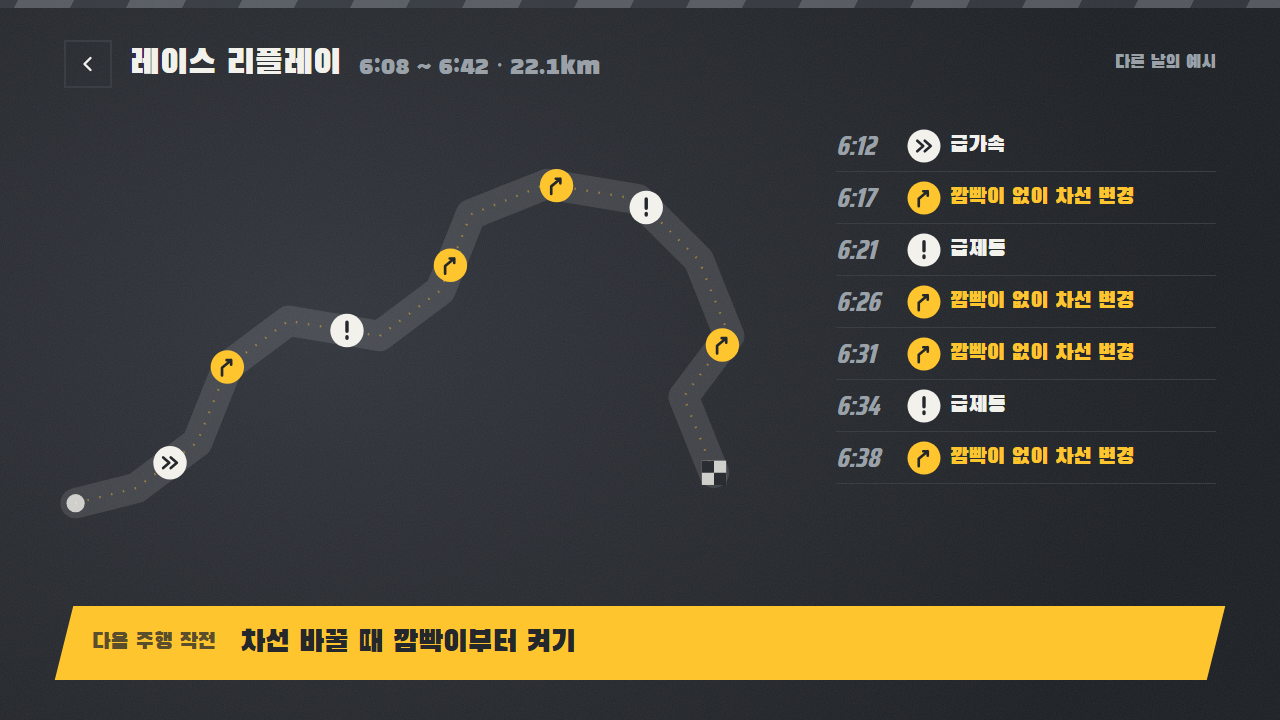
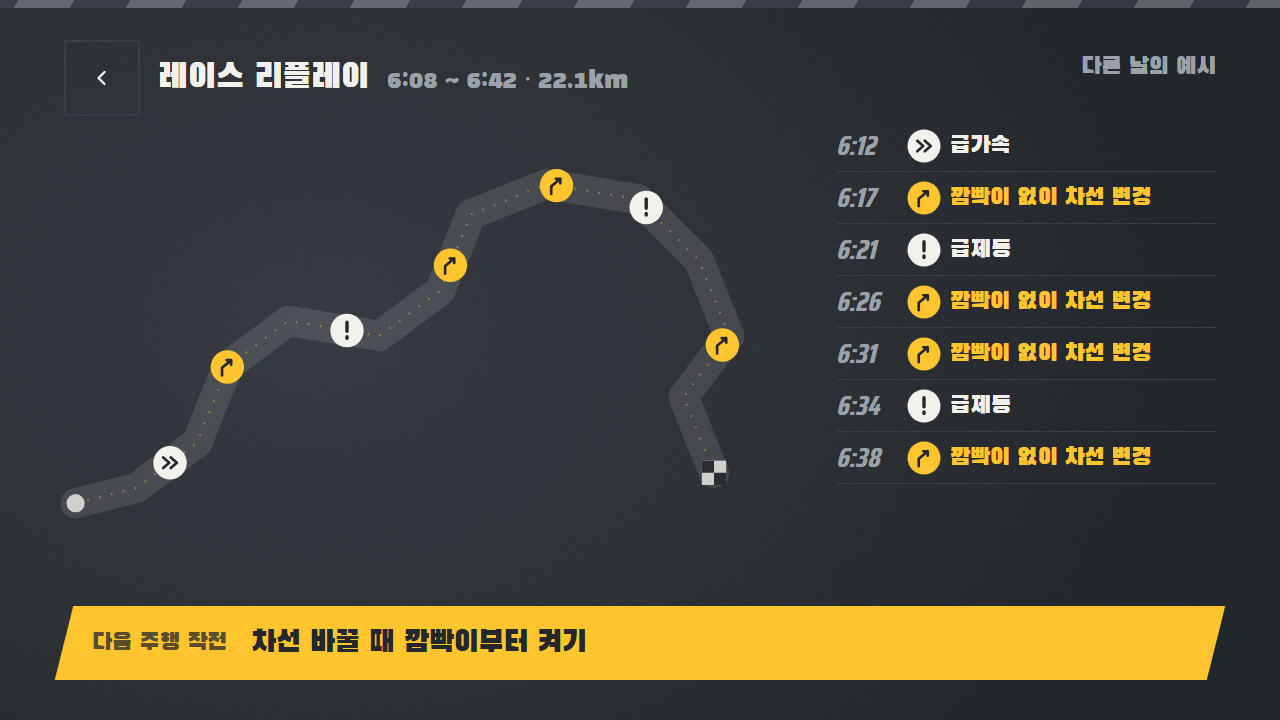
fix(mockups): meet Android Automotive readability (24px text, 4.5:1 contrast, 76px targets)
Adds an in-page audit checked by tests. Darkens the race red to #C8102E so white text passes; dimmed rows use grey text instead of opacity.

diff --git a/mockups/league.html b/mockups/league.html
@@ -9,31 +9,31 @@
   .head .t { font-size: 34px; }
   .head .t .sub { color: var(--grey); font-size: 24px; margin-left: 16px; }
   .tabs { display: flex; gap: 8px; }
-  .tabs b { font-weight: 400; font-size: 22px; padding: 12px 22px; background: var(--cell); color: var(--grey); }
+  .tabs b { font-weight: 400; font-size: 24px; padding: 12px 22px; background: var(--cell); color: var(--grey); }
   .tabs b.on { background: var(--white); color: var(--asphalt); }
   .mine { position: absolute; left: 64px; top: 128px; width: 500px; }
   .mine .k { font-size: 24px; color: var(--grey); }
   .mine .big { font-size: 200px; line-height: .85; letter-spacing: -6px; margin-top: 6px; }
   .mine .line { display: inline-block; margin-top: 14px; background: var(--yellow); color: var(--asphalt); font-size: 28px; padding: 8px 20px; }
   .tiers { display: flex; gap: 6px; margin-top: 28px; }
-  .tiers i { font-style: normal; flex: 1; text-align: center; font-size: 19px; padding: 8px 0; background: var(--cell); color: var(--grey); }
+  .tiers i { font-style: normal; flex: 1; text-align: center; font-size: 24px; padding: 8px 0; background: var(--cell); color: var(--grey); }
   .tiers i.on { background: var(--gold); color: var(--asphalt); }
   .gain { position: absolute; left: 64px; bottom: 44px; width: 500px; display: grid; grid-template-columns: 1fr 1fr; gap: 12px; }
-  .gain div { background: var(--cell); padding: 16px 18px 18px; font-size: 17px; color: var(--grey); line-height: 1.3; }
+  .gain div { background: var(--cell); padding: 16px 18px 18px; font-size: 24px; color: var(--grey); line-height: 1.3; }
   .gain b { display: block; font-weight: 400; font-size: 46px; color: var(--white); line-height: 1.05; margin-bottom: 4px; }
   .gain .team b { color: var(--yellow); }
   .tower { position: absolute; right: 64px; top: 112px; width: 560px; }
-  .tower h4 { margin: 0 0 10px; font-weight: 400; font-size: 22px; color: var(--grey); display: flex; justify-content: space-between; padding: 0 20px; }
+  .tower h4 { margin: 0 0 10px; font-weight: 400; font-size: 24px; color: var(--grey); display: flex; justify-content: space-between; padding: 0 20px; }
   .tower .row { grid-template-columns: 100px minmax(0, 1fr) 90px; height: 50px; margin-bottom: 5px; }
   .tower .row .p { font-size: 32px; }
-  .tower .row .n { font-size: 22px; }
+  .tower .row .n { font-size: 24px; }
   .tower .row .s { font-size: 28px; }
   .tower .row.top1 .p { color: var(--gold); }
   .tower .row.me { height: 62px; margin: 6px 0 6px -24px; }
-  .dots { text-align: center; color: #6B7178; font-size: 22px; line-height: 26px; }
+  .dots { text-align: center; color: #9BA1A8; font-size: 24px; line-height: 26px; }
   .zone { display: flex; align-items: center; gap: 14px; height: 30px; margin: 2px 0 6px; --c: var(--yellow); }
   .zone::before, .zone::after { content: ''; flex: 1; border-top: 3px dashed var(--c); }
-  .zone span { color: var(--yellow); font-size: 20px; white-space: nowrap; }
+  .zone span { color: var(--yellow); font-size: 24px; white-space: nowrap; }
   .zone.down { --c: var(--red); }
   .zone.down span { color: #F07A80; }
 </style>
@@ -54,8 +54,8 @@
 </div>
 
 <div class="gain">
-  <div>안전운전으로 내가 아낀 돈<b class="num">₩8,400</b>이번 달, 부드럽게 달린 만큼</div>
-  <div class="team">우리 리그가 함께 줄인 급제동<b class="num">3,120회</b>이번 주, 지난주보다 12% 적게</div>
+  <div>내가 아낀 돈<b class="num">₩8,400</b>이번 달</div>
+  <div class="team">리그가 줄인 급제동<b class="num">3,120회</b>이번 주, 12% 감소</div>
 </div>
 
 <div class="tower">

diff --git a/mockups/report.html b/mockups/report.html
@@ -11,7 +11,7 @@
   .sc .k { font-size: 24px; color: var(--grey); }
   .sc .big { font-size: 150px; line-height: .9; letter-spacing: -4px; }
   .sc .chg { display: inline-block; margin-left: 18px; vertical-align: 28px; background: var(--yellow); color: var(--asphalt); font-size: 30px; padding: 6px 18px; }
-  .sc .last { font-size: 22px; color: var(--grey); margin-top: 6px; }
+  .sc .last { font-size: 24px; color: var(--grey); margin-top: 6px; }
   .bars { position: absolute; left: 64px; top: 380px; width: 520px; height: 190px; display: flex; align-items: flex-end; gap: 14px; border-bottom: 2px solid #3A3E45; }
   .bars div { flex: 1; display: flex; flex-direction: column; align-items: center; gap: 6px; height: 100%; justify-content: flex-end; }
   .bars b { font-weight: 400; font-size: 24px; }
@@ -19,13 +19,13 @@
   .bars i.hi { background: var(--yellow); }
   .bars i.rest { background: none; border: 2px dashed #3A3E45; border-bottom: none; height: 24px; }
   .days { position: absolute; left: 64px; top: 582px; width: 520px; display: flex; gap: 14px; }
-  .days span { flex: 1; text-align: center; font-size: 22px; color: var(--grey); }
+  .days span { flex: 1; text-align: center; font-size: 24px; color: var(--grey); }
   .pos { position: absolute; right: 64px; top: 118px; width: 560px; }
   .pos .k { font-size: 24px; color: var(--grey); display: flex; justify-content: space-between; }
   .pos .k b { font-weight: 400; color: var(--yellow); }
   .pos svg { display: block; margin-top: 12px; }
   .pit { position: absolute; left: 64px; right: 64px; bottom: 36px; display: flex; align-items: center; gap: 20px; background: var(--cell); padding: 16px 24px; }
-  .pit .h { color: var(--yellow); font-size: 22px; white-space: nowrap; }
+  .pit .h { color: var(--yellow); font-size: 24px; white-space: nowrap; }
   .pit .m { font-size: 26px; }
 </style>
 </head>
@@ -83,13 +83,13 @@
   const jumps = days.map((d, i) => i ? days[i - 1].rank - d.rank : 0);
   const bestJump = jumps.indexOf(Math.max(...jumps));
   let svg = '';
-  for (let r = lo; r <= hi; r += 3) svg += `<path d="M60 ${y(r)} H540" stroke="#3A3E45"/><text x="0" y="${y(r) + 7}" fill="#9BA1A8" font-size="22" class="num">P${r}</text>`;
-  svg += `<path d="M60 ${y(lo)} H540" stroke="#FFC52E" stroke-width="3" stroke-dasharray="10 8"/><text x="540" y="${y(lo) - 10}" fill="#FFC52E" font-size="20" text-anchor="end">승급 라인</text>`;
+  for (let r = lo; r <= hi; r += 3) svg += `<path d="M60 ${y(r)} H540" stroke="#3A3E45"/><text x="0" y="${y(r) + 7}" fill="#9BA1A8" font-size="24" class="num">P${r}</text>`;
+  svg += `<path d="M60 ${y(lo)} H540" stroke="#FFC52E" stroke-width="3" stroke-dasharray="10 8"/><text x="540" y="${y(lo) - 10}" fill="#FFC52E" font-size="24" text-anchor="end">승급 라인</text>`;
   svg += `<polyline points="${days.map((d, i) => x(i) + ',' + y(d.rank)).join(' ')}" fill="none" stroke="#F2F1EC" stroke-width="5" stroke-linejoin="round"/>`;
   days.forEach((d, i) => {
     svg += i === bestJump ? `<circle cx="${x(i)}" cy="${y(d.rank)}" r="10" fill="#FFC52E"/><text x="${x(i)}" y="${y(d.rank) - 20}" fill="#FFC52E" font-size="24" text-anchor="middle" class="num">+${jumps[i]}</text>`
       : `<circle cx="${x(i)}" cy="${y(d.rank)}" r="7" fill="#24272C" stroke="#F2F1EC" stroke-width="4"/>`;
-    svg += `<text x="${x(i)}" y="396" fill="#9BA1A8" font-size="22" text-anchor="middle">${d.n}</text>`;
+    svg += `<text x="${x(i)}" y="396" fill="#9BA1A8" font-size="24" text-anchor="middle">${d.n}</text>`;
   });
   document.getElementById('chart').innerHTML = svg;
   finishPage();

diff --git a/mockups/page.js b/mockups/page.js
@@ -21,6 +21,7 @@ function finishPage() {
       return outside || clipped;
     });
     document.body.dataset.overflow = bad ? 'yes' : 'none';
+    document.body.dataset.audit = carAudit().join(' | ');
     if (bad) document.body.dataset.offender = bad.tagName + '.' + bad.className + ' ' + bad.textContent.slice(0, 20) + ' ' + JSON.stringify(bad.getBoundingClientRect());
   });
 }
@@ -50,3 +51,38 @@ const EVENT_ICON = {
   brake: '<circle r="22" fill="#F2F1EC"/><path d="M0-11v12M0 8v2" stroke="#24272C" stroke-width="4.5" stroke-linecap="round"/>',
   accel: '<circle r="22" fill="#F2F1EC"/><path d="M-9-7l8 7-8 7M1-7l8 7-8 7" fill="none" stroke="#24272C" stroke-width="3.5" stroke-linejoin="round" stroke-linecap="round"/>',
 };
+
+// Android Automotive 가독성 기준 검사. 어긋난 곳을 "글자: 이유" 목록으로 돌려준다.
+// 글씨 24px 이상, 글씨와 배경 대비 4.5:1 이상, 링크·버튼은 76×76px 이상.
+const PAGE_BG = [48, 52, 59]; // 조명이 가장 밝은 곳(#30343B). 밝은 글씨에는 가장 불리한 바탕.
+function carAudit() {
+  const rgba = s => (s.match(/[\d.]+/g) || [0, 0, 0, 0]).map(Number).concat(1).slice(0, 4);
+  const lum = c => { const v = c.slice(0, 3).map(x => { x /= 255; return x <= .03928 ? x / 12.92 : ((x + .055) / 1.055) ** 2.4; }); return .2126 * v[0] + .7152 * v[1] + .0722 * v[2]; };
+  const mix = (fg, bg, a) => fg.slice(0, 3).map((x, i) => x * a + bg[i] * (1 - a));
+  const out = [];
+  for (const el of document.body.querySelectorAll('*')) {
+    if (el.closest('[aria-hidden="true"]') || el.tagName === 'SCRIPT') continue;
+    const r = el.getBoundingClientRect();
+    if (r.width === 0) continue;
+    const label = (el.textContent || el.getAttribute('aria-label') || el.tagName).trim().slice(0, 14);
+    if ((el.tagName === 'A' || el.tagName === 'BUTTON') && Math.min(r.width, r.height) < 75.5) out.push(`${label}: 누르는 영역 ${Math.round(r.width)}×${Math.round(r.height)}`);
+    const own = [...el.childNodes].some(n => n.nodeType === 3 && n.textContent.trim());
+    if (!own) continue;
+    const cs = getComputedStyle(el);
+    const size = parseFloat(cs.fontSize);
+    if (size < 23.5) out.push(`${label}: 글씨 ${size}px`);
+    // 바탕: 색이 칠해진 가장 가까운 조상, 없으면 페이지 바탕. 투명도는 글씨에 곱한다.
+    let bg = PAGE_BG, alpha = rgba(cs.color)[3];
+    for (let p = el; p && p !== document.body; p = p.parentElement) {
+      const ps = getComputedStyle(p);
+      alpha *= parseFloat(ps.opacity);
+      const b = rgba(ps.backgroundColor);
+      if (b[3] > .5 && bg === PAGE_BG) bg = b.slice(0, 3);
+    }
+    const fg = mix(rgba(cs.color), bg, alpha);
+    const [hi, lo] = [lum(fg), lum(bg)].sort((a, b) => b - a);
+    const ratio = (hi + .05) / (lo + .05);
+    if (ratio < 4.5) out.push(`${label}: 대비 ${ratio.toFixed(1)}`);
+  }
+  return out;
+}

diff --git a/mockups/result-low.html b/mockups/result-low.html
@@ -6,17 +6,17 @@
 <link rel="stylesheet" href="tokens.css">
 <style>
   .top { position: absolute; left: 64px; top: 52px; font-size: 30px; color: var(--grey); }
-  .note { position: absolute; right: 64px; bottom: 20px; font-size: 18px; color: var(--grey); }
+  .note { position: absolute; right: 64px; bottom: 20px; font-size: 24px; color: var(--grey); }
   .score { position: absolute; left: 56px; top: 96px; font-size: 340px; line-height: .85; letter-spacing: -12px; color: var(--grey); }
-  .score small { font-family: 'Black Han Sans'; font-style: normal; font-size: 84px; letter-spacing: 0; color: #6B7178; margin-left: 28px; }
+  .score small { font-family: 'Black Han Sans'; font-style: normal; font-size: 84px; letter-spacing: 0; color: #9BA1A8; margin-left: 28px; }
   .pit { position: absolute; left: 64px; top: 400px; width: 600px; background: var(--yellow); color: var(--asphalt); padding: 22px 28px 24px; }
   .pit .h { font-size: 24px; opacity: .75; }
   .pit .m { font-size: 38px; line-height: 1.2; margin-top: 6px; white-space: nowrap; }
-  .pit .r { display: flex; justify-content: space-between; margin-top: 14px; font-size: 21px; border-top: 3px solid var(--asphalt); padding-top: 12px; }
-  .stats { position: absolute; left: 720px; bottom: 56px; display: flex; gap: 40px; font-size: 22px; color: var(--grey); }
+  .pit .r { display: flex; justify-content: space-between; margin-top: 14px; font-size: 24px; border-top: 3px solid var(--asphalt); padding-top: 12px; }
+  .stats { position: absolute; left: 720px; bottom: 56px; display: flex; gap: 40px; font-size: 24px; color: var(--grey); }
   .stats b { display: block; font-size: 48px; line-height: 1; color: var(--white); }
   .stats b.broken { color: var(--grey); }
-  .stats .again { font-size: 20px; color: var(--yellow); }
+  .stats .again { font-size: 24px; color: var(--yellow); }
   .tower { position: absolute; right: 64px; top: 52px; width: 520px; }
   .tower h4 { margin: 0 0 14px; font-weight: 400; font-size: 26px; color: var(--grey); display: flex; justify-content: space-between; }
   .tower .row { grid-template-columns: 112px minmax(0, 1fr) auto 84px; height: 60px; }
@@ -26,7 +26,7 @@
   .tower .row.me .p { font-size: 44px; }
   .tower .row.target { outline: 3px dashed var(--yellow); outline-offset: -3px; }
   .tower .tag { background: var(--yellow); color: var(--asphalt); }
-  .gap { font-size: 22px; color: var(--yellow); margin: 2px 0 8px 8px; }
+  .gap { font-size: 24px; color: var(--yellow); margin: 2px 0 8px 8px; }
 </style>
 </head>
 <body>

diff --git a/mockups/driving.html b/mockups/driving.html
@@ -9,16 +9,16 @@
   .rec { position: absolute; left: 80px; top: 64px; display: flex; align-items: center; gap: 14px; font-size: 26px; color: var(--grey); }
   .rec i { width: 16px; height: 16px; border-radius: 50%; background: var(--yellow); }
   h1 { position: absolute; left: 80px; top: 180px; margin: 0; font-weight: 400; font-size: 84px; color: var(--white); line-height: 1.1; }
-  .sub { position: absolute; left: 84px; top: 290px; font-size: 30px; color: #8A9097; }
+  .sub { position: absolute; left: 84px; top: 290px; font-size: 30px; color: #9BA1A8; }
   .sil { position: absolute; right: 70px; top: 318px; width: 480px; height: 176px; opacity: .18; }
   .wrap { position: absolute; left: 80px; right: 80px; bottom: 150px; height: 44px; }
   .track { position: absolute; inset: 0; display: flex; gap: 6px; }
   .track span { flex: 1; background: #2B2F35; }
   .track span.on { background: var(--yellow); opacity: .8; }
-  .track span.flag { flex: 0 0 60px; background: repeating-conic-gradient(#8A9097 0 25%, #2B2F35 0 50%) 0 0/22px 22px; }
-  .qlabel { position: absolute; top: -44px; left: 0; border-bottom: 3px solid #5C5A4E; font-size: 20px; color: #8A9097; padding-bottom: 6px; white-space: nowrap; }
+  .track span.flag { flex: 0 0 60px; background: repeating-conic-gradient(#9BA1A8 0 25%, #2B2F35 0 50%) 0 0/22px 22px; }
+  .qlabel { position: absolute; top: -44px; left: 0; border-bottom: 3px solid #5C5A4E; font-size: 24px; color: #9BA1A8; padding-bottom: 6px; white-space: nowrap; }
   .car { position: absolute; top: -34px; }
-  .meta { position: absolute; left: 80px; right: 80px; bottom: 72px; display: flex; justify-content: space-between; font-size: 26px; color: #8A9097; }
+  .meta { position: absolute; left: 80px; right: 80px; bottom: 72px; display: flex; justify-content: space-between; font-size: 26px; color: #9BA1A8; }
   .meta b { font-size: 40px; color: var(--white); margin-right: 8px; }
   .meta .streak { color: var(--yellow); }
 </style>

diff --git a/mockups/replay.html b/mockups/replay.html
@@ -6,19 +6,19 @@
 <link rel="stylesheet" href="tokens.css">
 <style>
   .head { position: absolute; left: 64px; top: 40px; display: flex; align-items: center; gap: 18px; }
-  .back { width: 48px; height: 48px; border: 2px solid #3A3E45; display: flex; align-items: center; justify-content: center; }
+  .back { width: 76px; height: 76px; border: 2px solid #3A3E45; display: flex; align-items: center; justify-content: center; }
   .head h1 { margin: 0; font-weight: 400; font-size: 34px; }
   .head .sub { color: var(--grey); font-size: 24px; }
-  .note { position: absolute; right: 64px; top: 52px; font-size: 18px; color: var(--grey); }
+  .note { position: absolute; right: 64px; top: 52px; font-size: 24px; color: var(--grey); }
   #map { position: absolute; left: 30px; top: 108px; width: 760px; height: 456px; }
   .list { position: absolute; right: 64px; top: 120px; width: 380px; margin: 0; padding: 0; list-style: none; }
-  .list li { display: grid; grid-template-columns: 70px 44px 1fr; align-items: center; height: 52px; border-bottom: 1px solid #3A3E45; font-size: 22px; }
+  .list li { display: grid; grid-template-columns: 70px 44px 1fr; align-items: center; height: 52px; border-bottom: 1px solid #3A3E45; font-size: 24px; }
   .list li .time { font-size: 26px; color: var(--grey); }
   .list li.lane .what { color: var(--yellow); }
   .pit { position: absolute; left: 64px; right: 64px; bottom: 40px; display: flex; align-items: center; gap: 24px; background: var(--yellow); color: var(--asphalt); padding: 18px 28px; }
-  .pit .h { font-size: 22px; opacity: .75; white-space: nowrap; }
+  .pit .h { font-size: 24px; opacity: .75; white-space: nowrap; }
   .pit .m { font-size: 30px; white-space: nowrap; }
-  .pit .r { margin-left: auto; font-size: 20px; white-space: nowrap; }
+  .pit .r { margin-left: auto; font-size: 24px; white-space: nowrap; }
 </style>
 </head>
 <body>

diff --git a/mockups/test/render.test.js b/mockups/test/render.test.js
@@ -23,7 +23,7 @@ test('result-low', () => {
   const dump = checkPage('result-low.html',
     ['64', '다음 주행 작전', '차선 바꿀 때 깜빡이부터 켜기', '깜빡이 없이 차선 변경 4회', '매너 +9점',
      '13일 → 0일', '다음 주행 70점이면 1일부터 다시', 'P126', '▼1', '목표', '다른 날의 예시']);
-  assert.ok(!dump.includes('#E8323C') && !dump.includes('var(--red)'), '아쉬운 날에 빨강 사용');
+  assert.ok(!dump.includes('#C8102E') && !dump.includes('var(--red)'), '아쉬운 날에 빨강 사용');
 });
 
 test('league', () => checkPage('league.html',
@@ -70,5 +70,16 @@ test('replay', () => {
   const text = dump.replace(/<(script|style)[\s\S]*?<\/\1>/g, '').replace(/<[^>]+>/g, '');
   assert.equal(text.split('깜빡이 없이 차선 변경').length - 1, 4, '깜빡이 누락 4회');
   assert.doesNotMatch(text, /[−-]\d+점/, '사건별 감점 숫자 금지');
-  assert.ok(!dump.includes('#E8323C') && !dump.includes('var(--red)'), '아쉬운 날에 빨강 사용');
+  assert.ok(!dump.includes('#C8102E') && !dump.includes('var(--red)'), '아쉬운 날에 빨강 사용');
+});
+
+// Android Automotive 가이드: 글씨 24dp 이상, 대비 4.5:1 이상, 누르는 영역 76×76dp 이상 (1px = 1dp로 봄)
+test('car readability: text >= 24px, contrast >= 4.5, tap targets >= 76px', () => {
+  const problems = [];
+  for (const f of ['result-win.html', 'result-low.html', 'replay.html', 'league.html', 'driving.html', 'report.html']) {
+    const m = dumpDom(f).match(/data-audit="([^"]*)"/);
+    assert.ok(m, `${f}: audit 없음`);
+    if (m[1]) problems.push(`${f}: ${m[1].replace(/&quot;/g, '"')}`);
+  }
+  assert.equal(problems.length, 0, '\n' + problems.join('\n'));
 });

diff --git a/mockups/tokens.css b/mockups/tokens.css
@@ -7,7 +7,7 @@
   --white: #F2F1EC;
   --grey: #9BA1A8;
   --yellow: #FFC52E;
-  --red: #E8323C;
+  --red: #C8102E;
   --gold: #D4A23C;
 }
 
@@ -34,8 +34,8 @@ body {
 .row .s { text-align: right; padding-right: 6px; }
 .row.me { background: var(--white); color: var(--asphalt); }
 .row.me .p { color: var(--asphalt); }
-.row.dim { opacity: .55; }
-.tag { font-size: 18px; padding: 3px 9px; }
+.row.dim > * { color: var(--grey); }
+.tag { font-size: 24px; padding: 3px 9px; }
 
 /* 배경: 아스팔트 입자 + 점수 쪽 조명 */
 .bg {
@@ -51,11 +51,11 @@ body {
   background: repeating-linear-gradient(90deg, var(--red) 0 56px, var(--white) 56px 112px); opacity: .9;
 }
 .kerb.t { top: 0; bottom: auto; height: 8px; opacity: .5; }
-.kerb.muted { background: repeating-linear-gradient(90deg, #4A4F57 0 56px, #8A9097 56px 112px); }
+.kerb.muted { background: repeating-linear-gradient(90deg, #4A4F57 0 56px, #9BA1A8 56px 112px); }
 
 /* 결과 카드 → 리플레이 버튼 */
 .replay-btn {
-  position: absolute; display: inline-flex; align-items: center; gap: 12px; height: 56px; padding: 0 26px;
+  position: absolute; display: inline-flex; align-items: center; gap: 12px; height: 76px; padding: 0 30px;
   border: 2px solid var(--white); color: var(--white); text-decoration: none; font-size: 24px; transform: skewX(-14deg);
 }
 .replay-btn > * { transform: skewX(14deg); }

diff --git a/mockups/result-win.html b/mockups/result-win.html
@@ -23,7 +23,7 @@
   .tower .row.me { height: 78px; margin: 10px 0 16px -28px; background: var(--yellow); }
   .tower .row.me .p { font-size: 46px; }
   .tower .tag { background: var(--red); color: var(--white); }
-  .gap { font-size: 22px; color: var(--yellow); margin: 2px 0 10px 8px; }
+  .gap { font-size: 24px; color: var(--yellow); margin: 2px 0 10px 8px; }
 </style>
 </head>
 <body>
